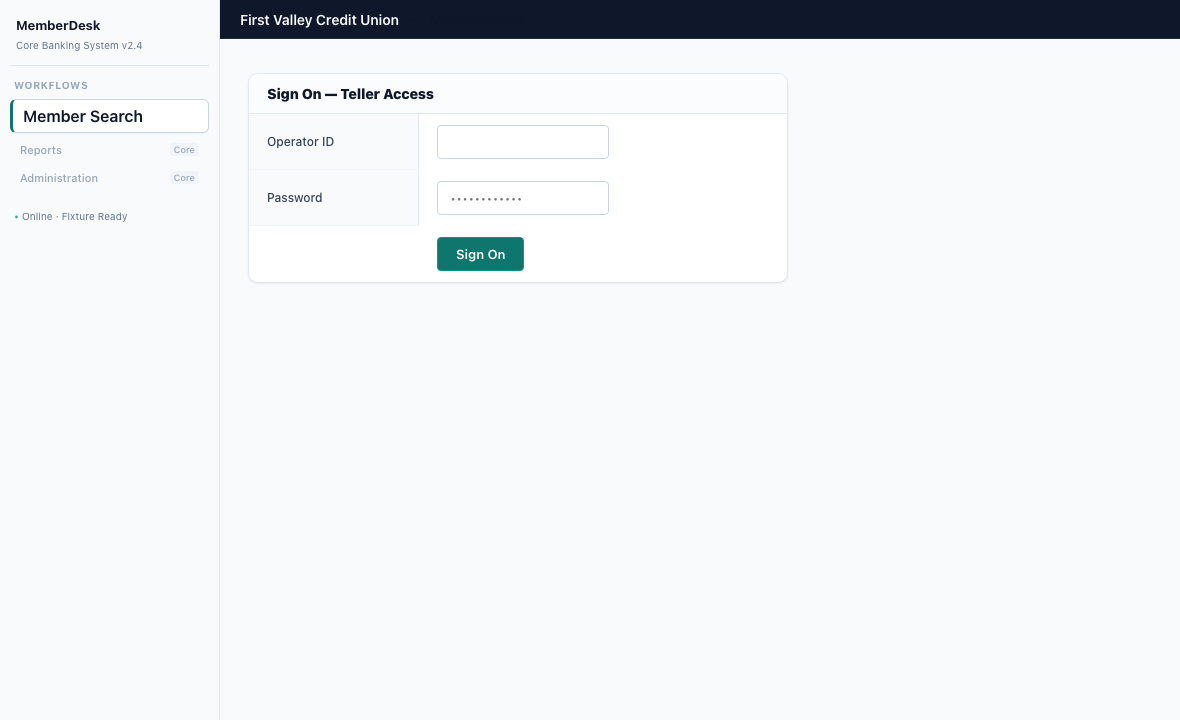
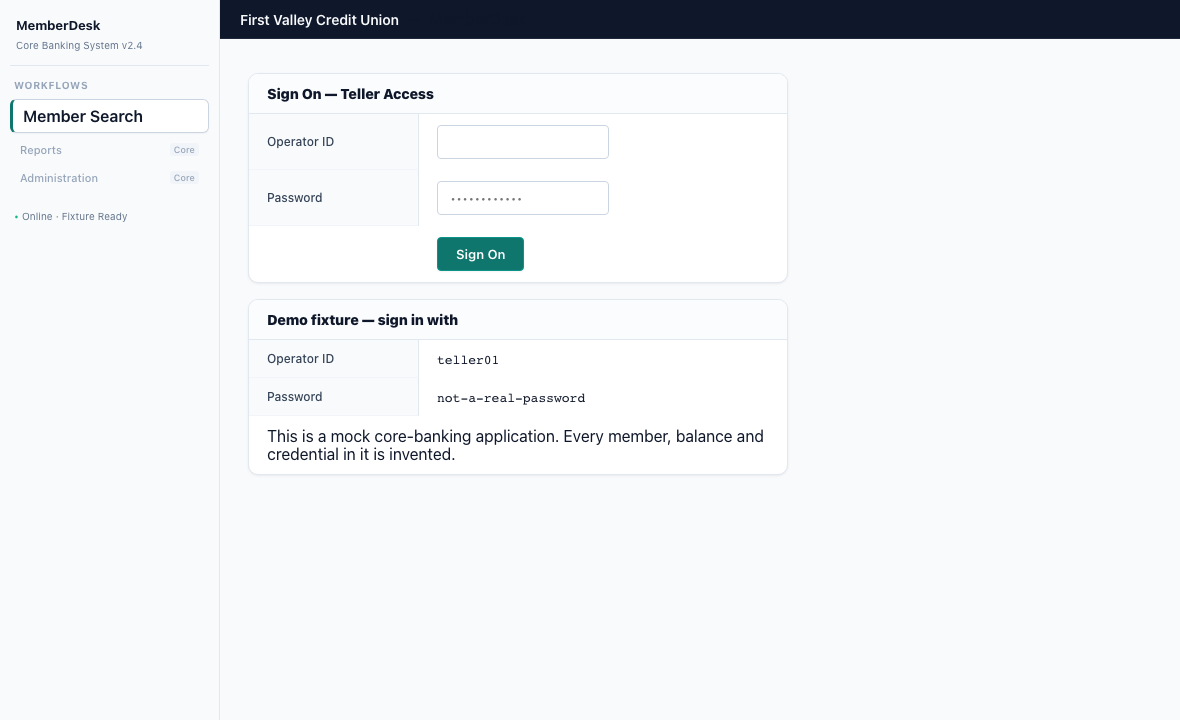
Make a cold start work without reading the docs
Audited this as someone cloning it for the first time, and found three places
where the project assumed knowledge it never gave.

The sign-on wall. `make app` opens on a login form and the credentials lived in
.env.example and in the source. A reviewer who wanted to look at the application
had to go read two files to get past its first screen. The screen prints them
now, from the constants rather than copied, so it cannot start lying if they
change. They are fixture values for a mock application whose every member,
balance and credential is invented, and the screen says so.

The invisible fixtures. The seeded members cover all three declared business
outcomes -- 13579 has no savings account, 55555 is restricted, 99999 does not
exist -- and nothing anywhere said so. The placeholder offered 12345 and that
was the end of it, so the two records that actually demonstrate "a negative
answer is not a failure" were unreachable unless you read data.py. The search
screen now lists every seeded member and what each one shows. Verified rather
than assumed: each of the three returns its outcome code and exits 0.

The unhelpful first error. `make demo` before `make setup` said
`.venv/bin/python: No such file or directory`, which does not say what to do.
Every venv-dependent target now depends on a guard that says to run `make setup`.
`make setup` also checks the Python version up front, because failing there is
clearer than failing deep inside pip on 3.13.
[…]

diff --git a/apps/mock_bank/templates/search.html b/apps/mock_bank/templates/search.html
@@ -18,4 +18,26 @@
   </form>
 </table>
 
+{# The seeded members cover every declared outcome, and nothing said so. A reviewer would find
+   12345 from the placeholder and never reach 13579 or 55555 -- which are precisely the two that
+   show a negative answer is not a failure. #}
+<table class="{{ v.css_form_table }}" cellpadding="4" cellspacing="0" border="0"
+       style="margin-top:20px">
+  <tr><td colspan="2"><b>Seeded members &mdash; what each one shows</b></td></tr>
+  <tr><td class="{{ v.css_label_cell }}"><code>12345</code></td>
+      <td>Ada Lovelace &mdash; savings $4,210.55, Active. The straightforward case.</td></tr>
+  <tr><td class="{{ v.css_label_cell }}"><code>67890</code></td>
+      <td>Grace Hopper &mdash; savings $18,730.00. Different values, same screen.</td></tr>
+  <tr><td class="{{ v.css_label_cell }}"><code>24680</code></td>
+      <td>Alan Turing &mdash; savings $0.00, Closed. An empty account is still an answer.</td></tr>
+  <tr><td class="{{ v.css_label_cell }}"><code>13579</code></td>
+      <td>Katherine Johnson &mdash; checking only. Returns <code>no_savings_account</code>.</td></tr>
+  <tr><td class="{{ v.css_label_cell }}"><code>55555</code></td>
+      <td>Restricted record. Returns <code>permission_denied</code>.</td></tr>
+  <tr><td class="{{ v.css_label_cell }}"><code>99999</code></td>
+      <td>No such member. Returns <code>member_not_found</code>.</td></tr>
+  <tr><td colspan="2">The last three are business outcomes, not failures: the capability exits 0
+      and reports the code.</td></tr>
+</table>
+
 {% endblock %}

diff --git a/apps/mock_bank/templates/login.html b/apps/mock_bank/templates/login.html
@@ -18,4 +18,25 @@
   </form>
 </table>
 
+{# Anyone opening this app for the first time lands here and has no way to get past it. The
+   credentials were in .env.example and in the source, which is two places they should not have
+   to go to see a demo. They are fixture values for a mock application with fictional data --
+   printing them here is the honest thing, not a leak. #}
+<table class="{{ v.css_form_table }}" cellpadding="4" cellspacing="0" border="0"
+       style="margin-top:16px">
+  <tr><td colspan="2"><b>Demo fixture &mdash; sign in with</b></td></tr>
+  <tr>
+    <td class="{{ v.css_label_cell }}">Operator ID</td>
+    <td><code>{{ demo_user }}</code></td>
+  </tr>
+  <tr>
+    <td class="{{ v.css_label_cell }}">Password</td>
+    <td><code>{{ demo_password }}</code></td>
+  </tr>
+  <tr>
+    <td colspan="2">This is a mock core-banking application. Every member, balance and
+      credential in it is invented.</td>
+  </tr>
+</table>
+
 {% endblock %}

diff --git a/apps/mock_bank/server.py b/apps/mock_bank/server.py
@@ -57,6 +57,11 @@ def create_app(variant_key: str = "base") -> FastAPI:
     def render(name: str, request: Request, **ctx: Any) -> HTMLResponse:
         ctx.setdefault("v", variant)
         ctx.setdefault("session", request.cookies.get(SESSION_COOKIE))
+        # The sign-on screen prints these so a first-time reader is not stopped by a login wall
+        # they have no way past. Read from the constants rather than repeated in the template, so
+        # the screen cannot start lying if the fixture credentials ever change.
+        ctx.setdefault("demo_user", VALID_USER)
+        ctx.setdefault("demo_password", VALID_PW)
         return templates.TemplateResponse(request=request, name=name, context=ctx)
 
     def signed_in(request: Request) -> bool:

diff --git a/README.md b/README.md
@@ -21,15 +21,40 @@ Goal + Target ──► LLM Discovery ──► Capability Artifact ──► De
 
 ## Setup
 
-Python 3.11 or 3.12, `git`, and ~400 MB for Chromium.
+Python 3.11 or 3.12, `git`, and ~400 MB for Chromium. Nothing else — no database, no Docker, no
+account, no API key.
 
 ```bash
-make setup
+make setup && make demo
 ```
 
-Everything below runs offline with no API key. The one thing that needs a model is a live discovery
-run: copy `.env.example` to `.env` and set `OPENROUTER_API_KEY`. Without it, discovery replays a
-recorded transcript and says so — in the output and in the evidence it writes.
+That is the whole assessment path: `make setup` builds the venv and installs Chromium, `make demo`
+runs all twelve stages end to end in about a minute. Everything in this repository works offline
+with no key. The single exception is a live discovery run — copy `.env.example` to `.env` and set
+`OPENROUTER_API_KEY` for that; without one, discovery replays a recorded transcript and says so, in
+the output and in the evidence it writes.
+
+`make` on its own lists every target.
+
+## Poking at it by hand
+
+```bash
+make app        # the mock back-office on :8811
+```
+
+The sign-on screen prints the fixture credentials, and the search screen lists the seeded members
+and what each one demonstrates, so nothing below needs to be looked up:
+
+| Sign on | `teller01` / `not-a-real-password` |
+|---|---|
+| `12345`, `67890` | a member with a savings account — the straightforward case |
+| `24680` | savings closed, $0.00 — an empty account is still an answer |
+| `13579` | checking only → business outcome `no_savings_account` |
+| `55555` | restricted record → business outcome `permission_denied` |
+| `99999` | no such member → business outcome `member_not_found` |
+
+Every member, balance and credential here is invented; this is a mock application built for the
+exercise.
 
 ## Demo path
 
